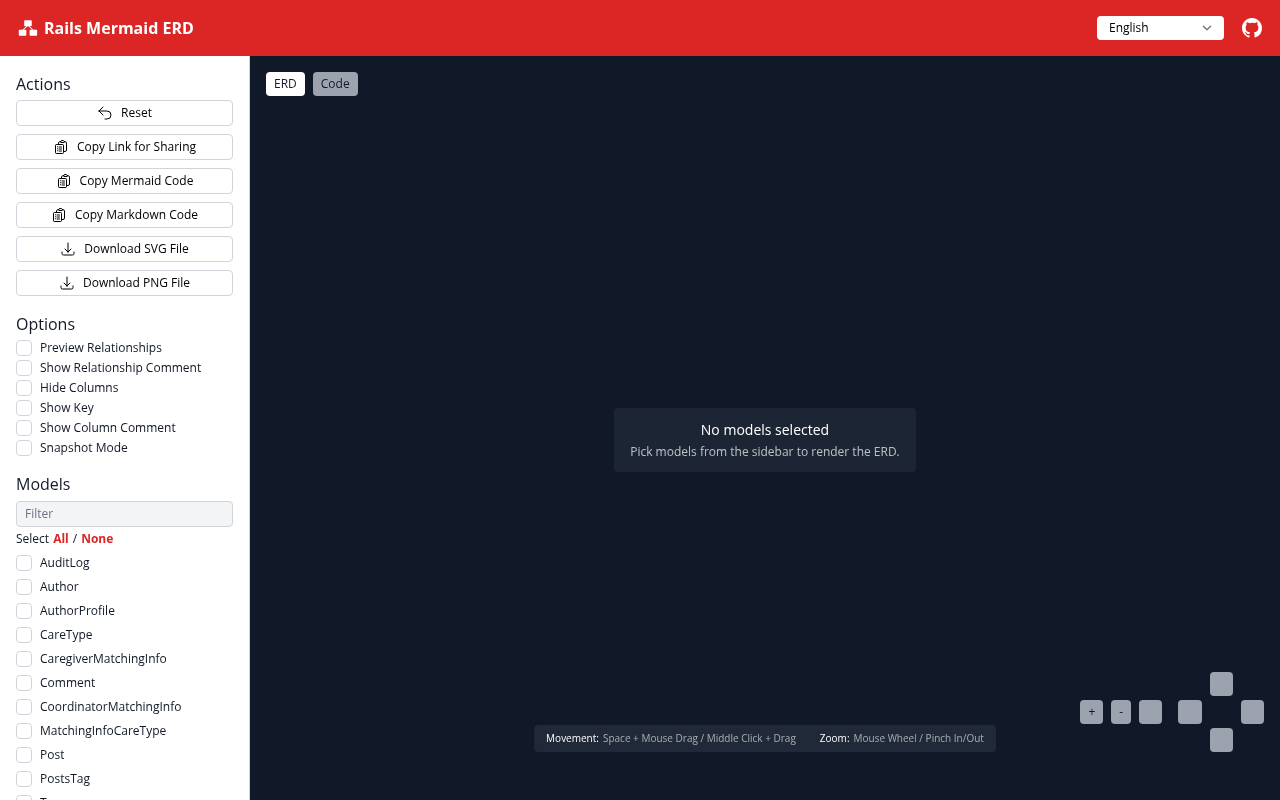
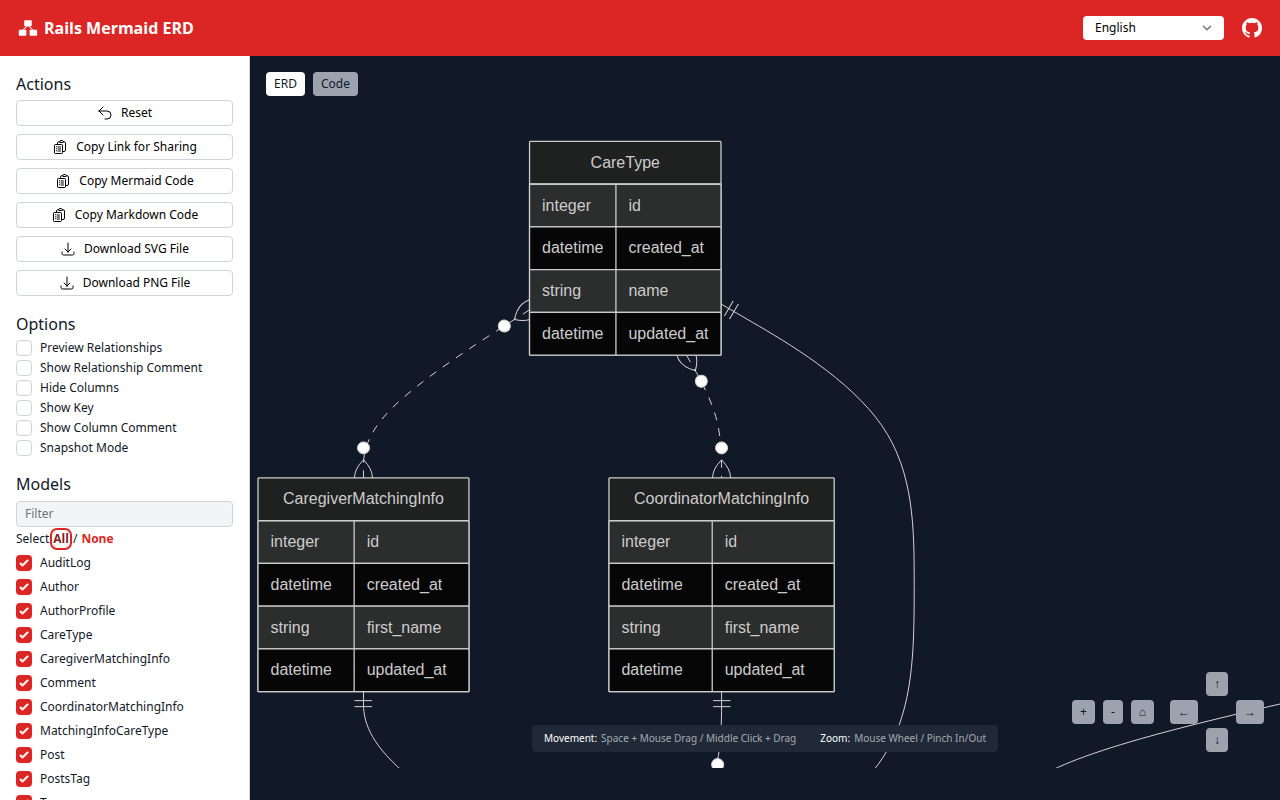
Capture all-models-selected ERD in release screenshot
Since #169 changed the default state to "no models selected" for perf on
large schemas, the release flow's `chromium-browser ... --screenshot`
command (which opens the page without any interaction) has been producing
the empty "No models selected" placeholder instead of the rendered ERD.

Build a base64 URL hash listing every model name (the same shape that
`updateHash()` writes in lib/templates/index.html.erb) and pass it on
the file:// URL so the page restores into the all-selected state, plus
`--virtual-time-budget=10000` to give Mermaid time to render the SVG
before the screenshot fires. Refresh docs/screen_shot.png with the
output of the new command.

diff --git a/RELEASE.md b/RELEASE.md
@@ -34,7 +34,20 @@ bundle exec rspec
 cd /workspace/spec/dummy
 RAILS_ENV=test bundle exec rails mermaid_erd
 cp -f /workspace/spec/dummy/mermaid_erd/index.html /workspace/docs/example.html
-chromium-browser --headless --disable-gpu --no-sandbox --window-size=1280,800 --hide-scrollbars --screenshot="/workspace/docs/screen_shot.png" /workspace/spec/dummy/mermaid_erd/index.html
+
+# Build a URL hash that pre-selects every model, so the screenshot shows the
+# rendered ERD instead of the "No models selected" placeholder (default since
+# #169). The hash format mirrors `updateHash()` in lib/templates/index.html.erb.
+HASH=$(ruby -rjson -rbase64 -e '
+  html = File.read("/workspace/spec/dummy/mermaid_erd/index.html")
+  data = JSON.parse(html[/window\.SCHEMA_DATA\s*=\s*(\{.*?\})\s*<\/script>/m, 1])
+  print Base64.strict_encode64({ selectModels: data["Models"].map { _1["ModelName"] } }.to_json)
+')
+chromium-browser --headless --disable-gpu --no-sandbox \
+  --window-size=1280,800 --hide-scrollbars \
+  --virtual-time-budget=10000 \
+  --screenshot="/workspace/docs/screen_shot.png" \
+  "file:///workspace/spec/dummy/mermaid_erd/index.html#${HASH}"
 ```
 
 Stage the bump, the regenerated demo, and the screenshot, then commit them together with the message `vX.Y.Z` (matching prior history: `v0.6.0`, `v0.5.1`, …):
